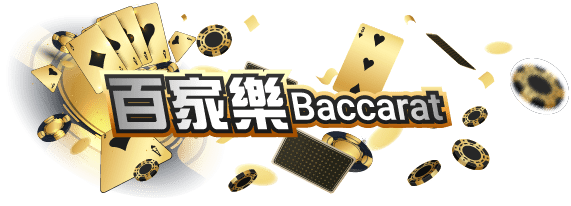
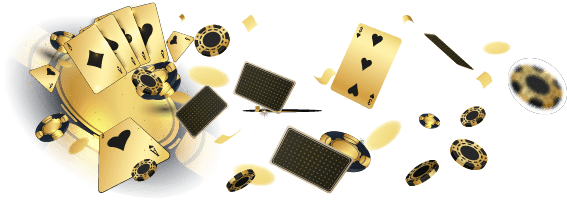
188大廳標題字樣改用css呈現

diff --git a/ba2/scss/_lobby_api188.scss b/ba2/scss/_lobby_api188.scss
@@ -1,29 +1,32 @@
 .lobby{
+    // lobby_api188
     &_api188{
         padding: 90px 90px 0;
         width: 100%;
         height: 100%;
     }
+    // lobby_item
     &_item{
         width: 100%;
         .item{
+            // item__title
             &__title{
                 position: relative;
                 width: 100%;
-                height: 100px;
+                height: 80px;
                 z-index: 0;
                 &:before{
                     content: '';
                     @include pos_a(tl, -50px, 0);
-                    width: 100%;
+                    width: 1345px;
                     height: 200px;
                     background: url(../images/ba_title.png) top left/contain no-repeat;
                 }
                 &:after{
                     content: '';
                     @include pos_a(tl, 0);
-                    width: 100%;
-                    height: 100px;
+                    width: 1345px;
+                    height: 100%;
                     transform: skewX(45deg);
                     background: linear-gradient(to right, rgba(255, 255, 197, 0) 0%, #f2d77a 10%, rgba(180, 124, 36, 0.1) 50%, rgba(180, 124, 36, 0) 70%);
                     z-index: -1;
@@ -34,7 +37,23 @@
                 @at-root .--elec .item__title:before{
                     background-image: url(../images/elec_title.png);
                 }
+                .title__txt{
+                    display: block;
+                    position: relative;
+                    padding-left: 100px;
+                    font-size: 50px;
+                    font-weight: bold;
+                    color: transparent;
+                    text-shadow: 0 -2px 0px #000, 2px 0 0px #000, 0 2px 0px #000, -2px 0 0px #000, 0 -4px 3px #b37c24, 4px 0 3px #b37c24, 0 4px 3px #b37c24, -4px 0 3px #b37c24;
+                    &:before{
+                        @include pos_a(tl, 0, 100px);
+                        @include bg_txt(linear-gradient(to right, #6e6e6e 0%, #fff 30%, #fff 70%, #737373 100%), 50px);
+                        content: attr(data-txt);
+                        text-shadow: none;
+                    }
+                }
             }
+            // item__content
             &__content{
                 @include d_f(flex, flex-start,flex-start);
                 position: relative;
@@ -42,6 +61,7 @@
                 flex-wrap: wrap;
                 margin-bottom: 20px;
             }
+            // item__table
             &__table{
                 position: relative;
                 width: 300px;
@@ -58,12 +78,14 @@
                     background: url(../images/table_decoration.svg) center/contain no-repeat;
                 }
                 .table{
+                    // table__num
                     &__num{
                         width: 100%;
                         height: 50px;
-                        @include bg_txt(linear-gradient(#ffffad 40%, #dabf7a 70%, #b6805c 100%), 20px);
+                        @include bg_txt(linear-gradient(#ffffad 40%, #dabf7a 70%, #b6805c 100%), 32px);
                         @include d_f(flex, center, center);
                     }
+                    // table__content
                     &__content{
                         width: 100%;
                         height: 105px;

diff --git a/ba2/tpl/lobby_api188.html b/ba2/tpl/lobby_api188.html
@@ -10,7 +10,9 @@
 <body>
     <div class="lobby_api188">
         <div class="lobby_item --ba">
-            <h1 class="item__title"></h1>
+            <h1 class="item__title">
+                <span class="title__txt" data-txt="百家樂Baccarat">百家樂Baccarat</span>
+            </h1>
             <div class="item__content">
                 <div class="item__table">
                     <div class="table__num">01</div>
@@ -57,11 +59,15 @@
             </div>
         </div>
         <div class="lobby_item --other" style="display: none;">
-            <h1 class="item__title"></h1>
+            <h1 class="item__title">
+                <span class="title__txt" data-txt="其他Other">其他Other</span>
+            </h1>
             <div class="item__content"></div>
         </div>
         <div class="lobby_item --elec" style="display: none;">
-            <h1 class="item__title"></h1>
+            <h1 class="item__title">
+                <span class="title__txt" data-txt="電子Electronic">電子Electronic</span>
+            </h1>
             <div class="item__content"></div>
         </div>
     </div>
